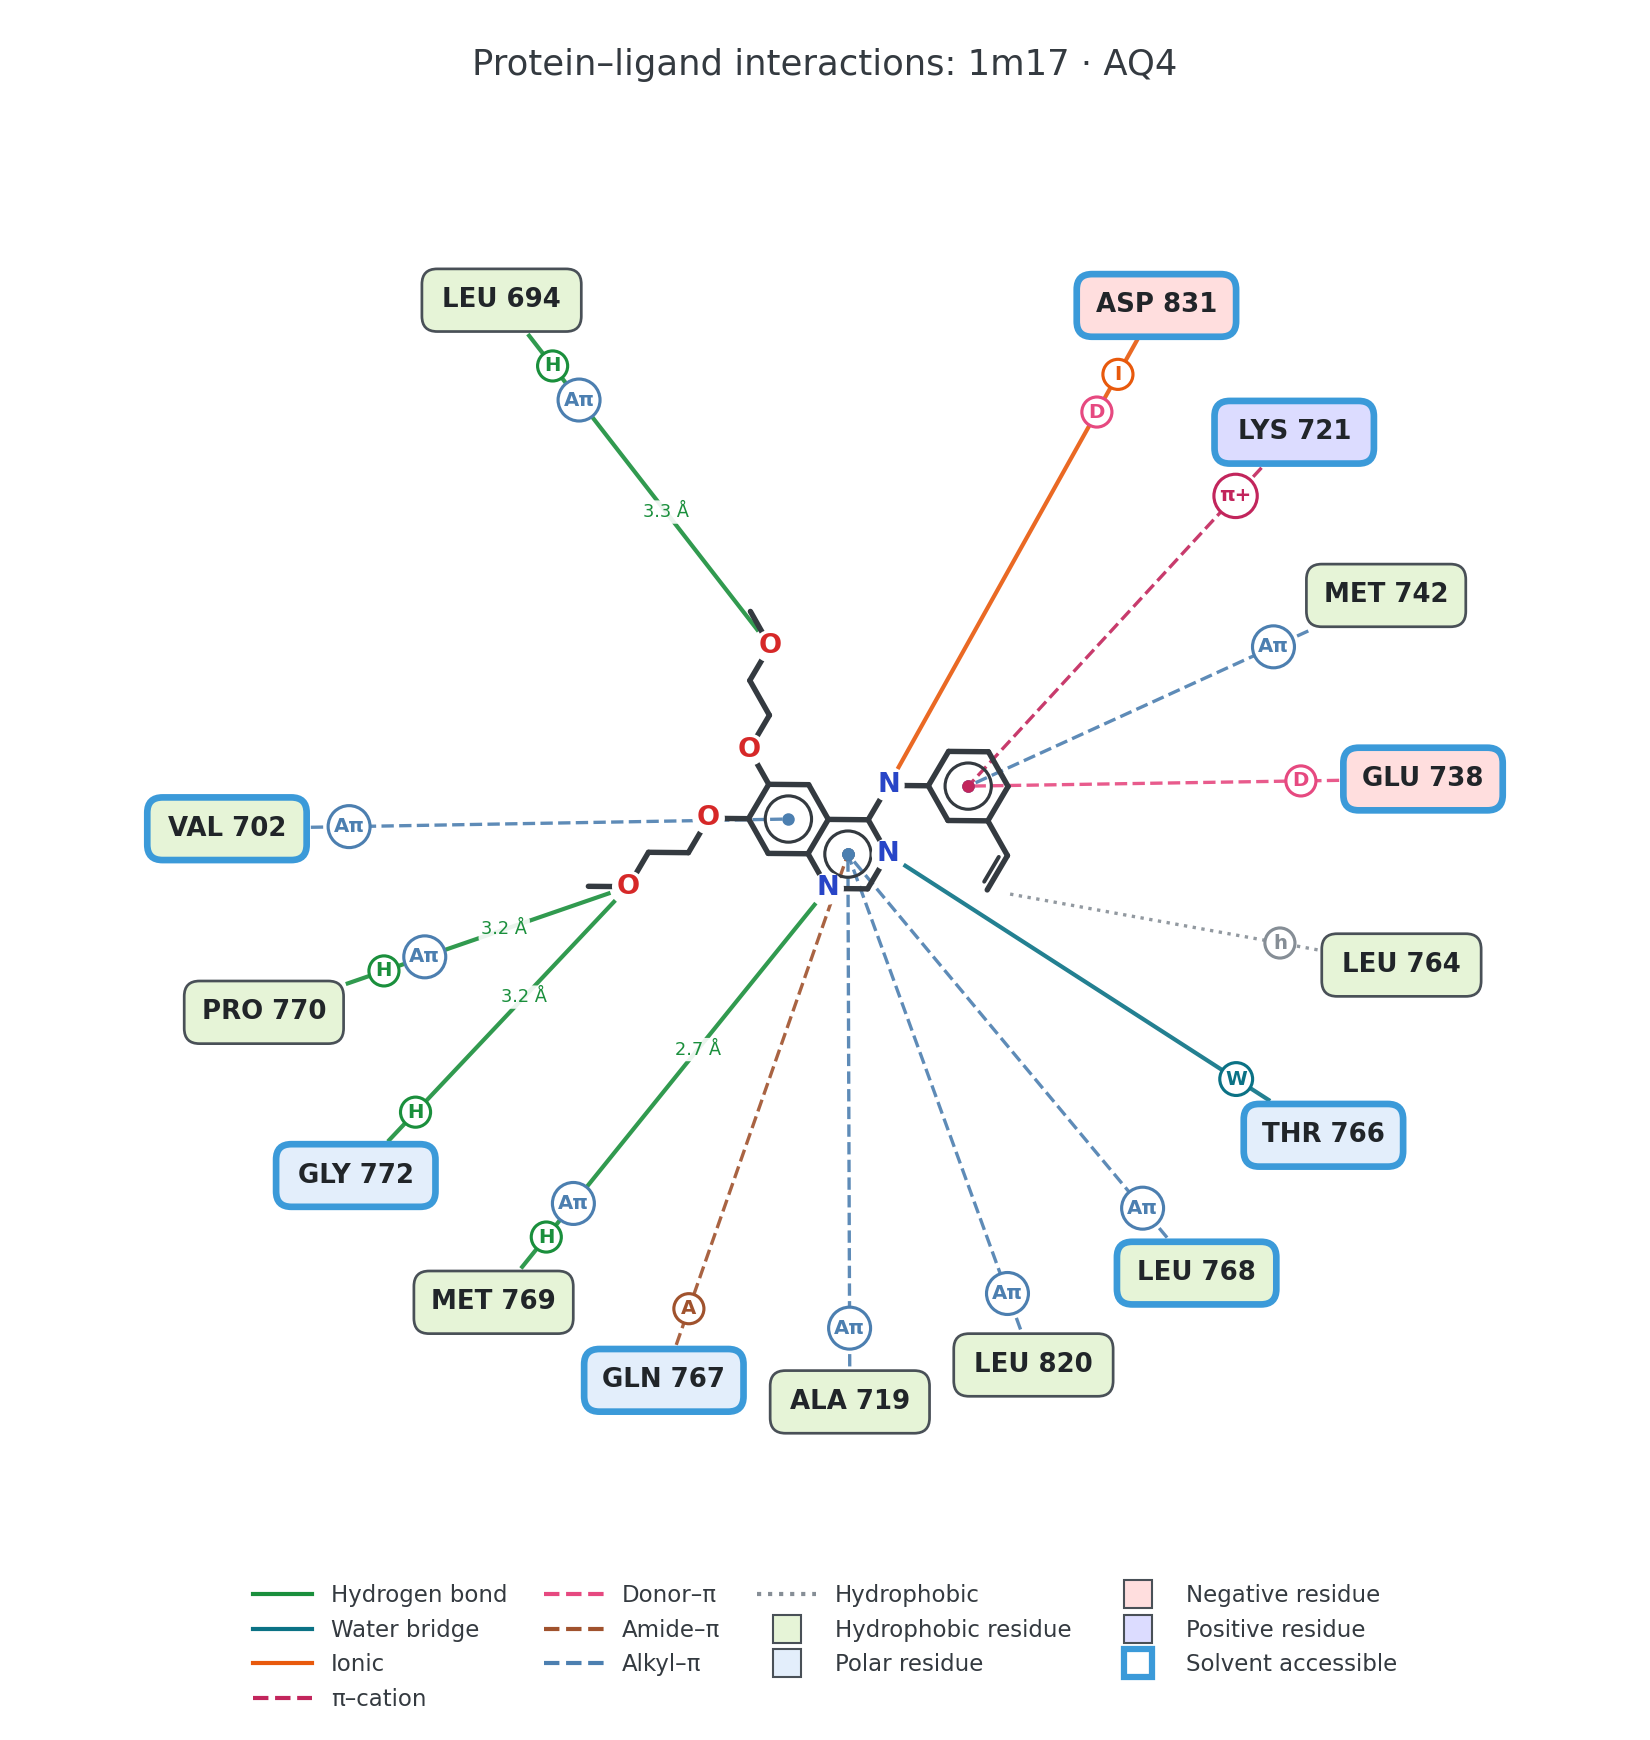
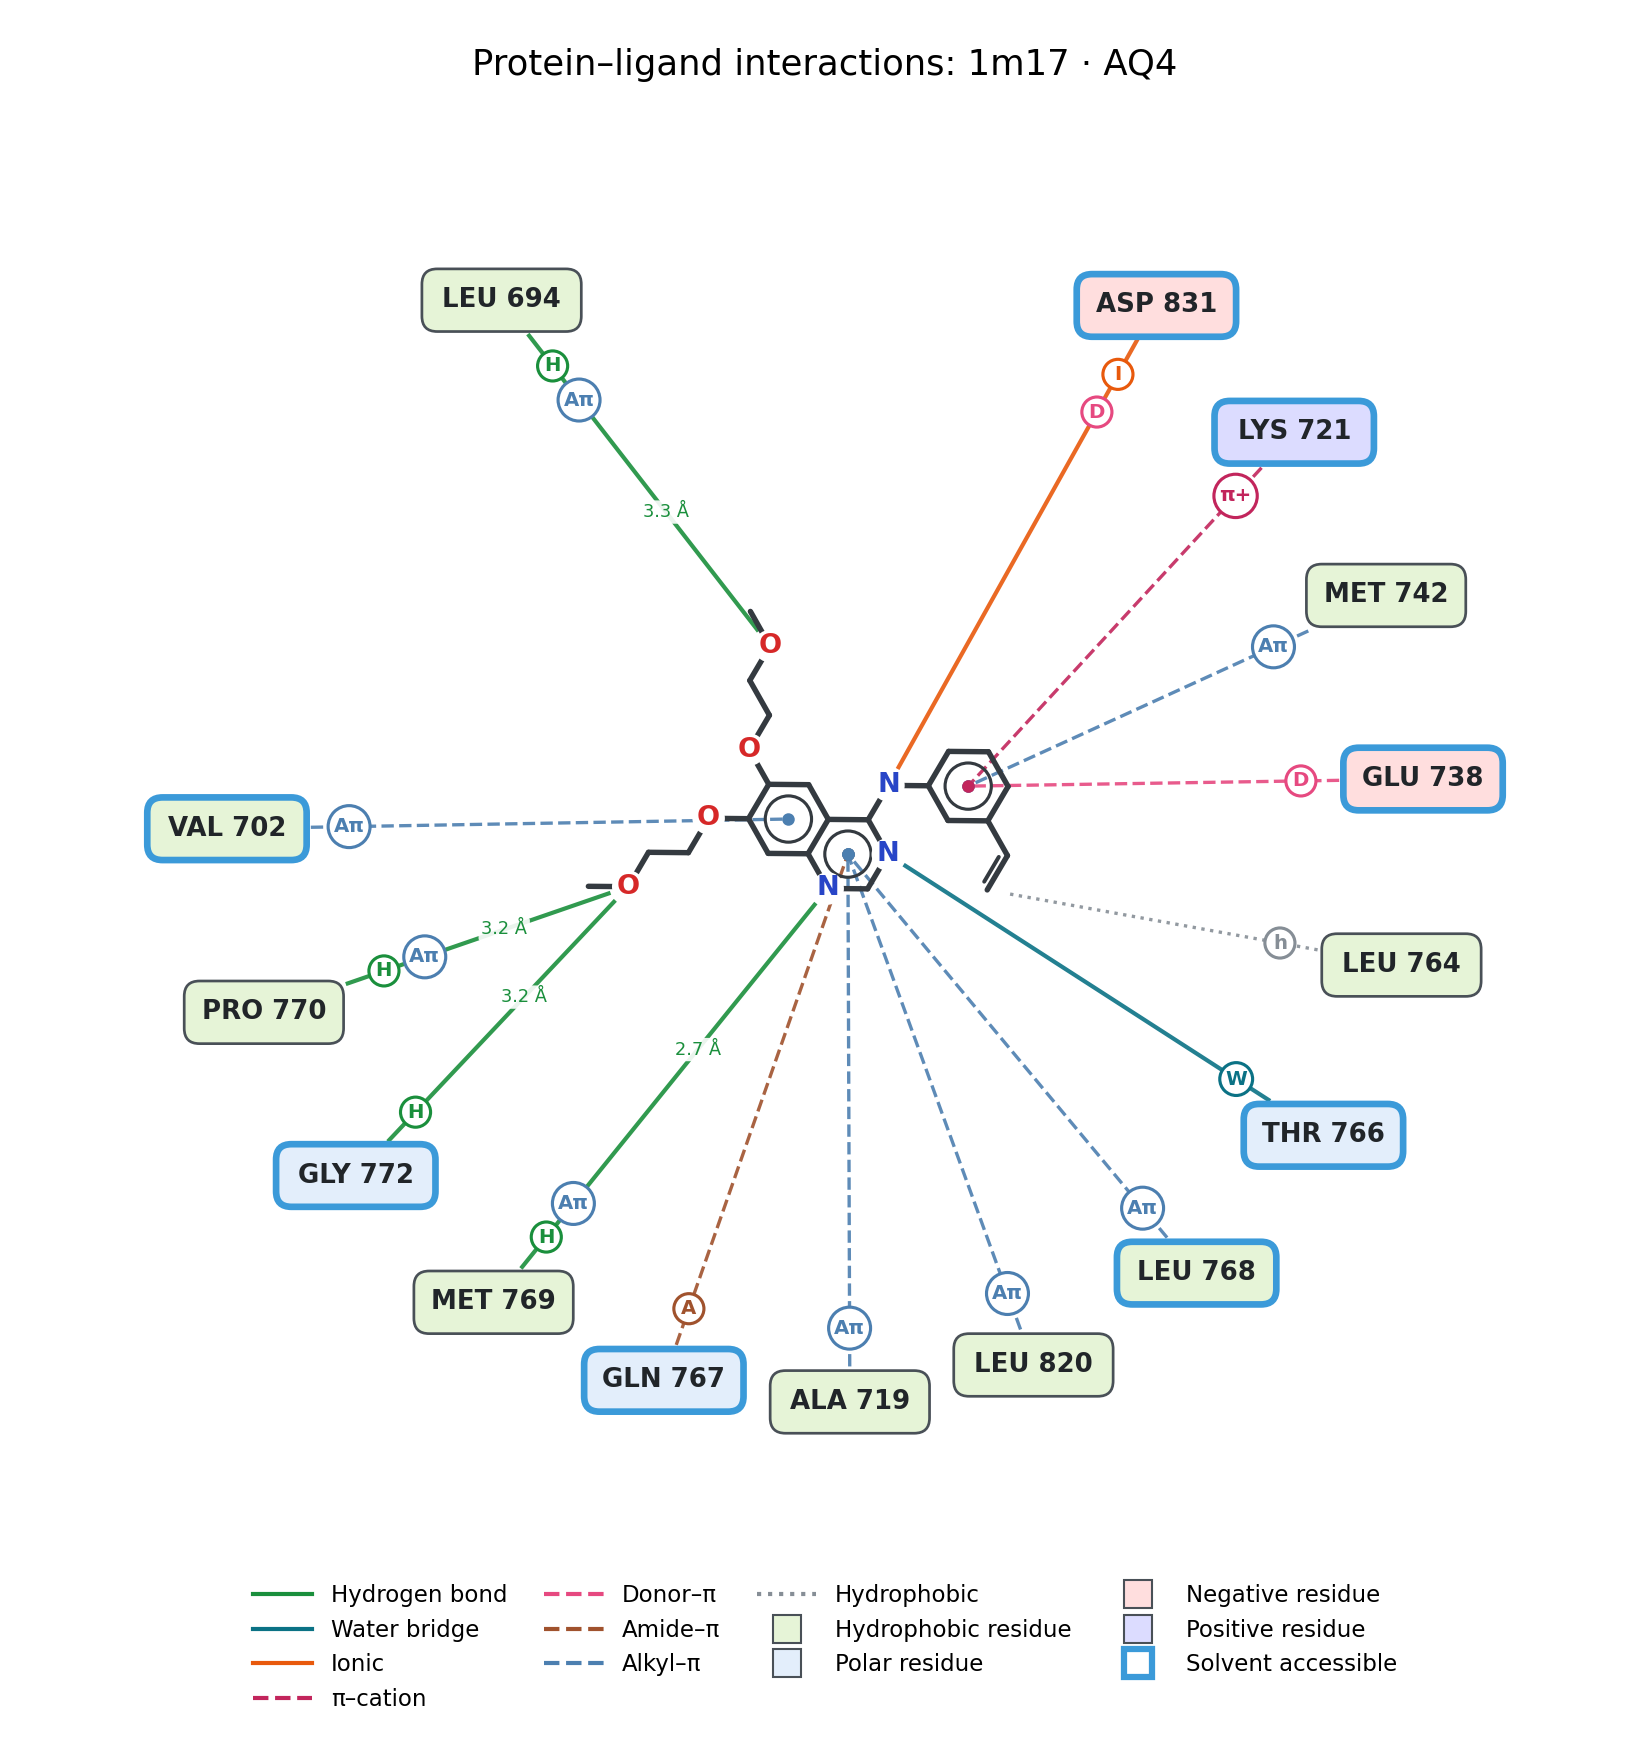
Keep default title and legend text black; refresh scheme examples
Default modern, classic and 3D output is pixel-identical to main.

diff --git a/src/pandamap/render_3d.py b/src/pandamap/render_3d.py
@@ -303,7 +303,7 @@ def render_contacts_3d(mapper, output_file='contacts_3d.png', figsize=(11, 11.6)
         base = os.path.splitext(os.path.basename(str(mapper.structure_file)))[0]
         ligand = getattr(mapper.ligand_residue, 'resname', '').strip()
         title = f"3D contacts: {base}" + (f" · {ligand}" if ligand else "")
-    ax.set_title(title, fontsize=17, pad=6, color=ink)
+    ax.set_title(title, fontsize=17, pad=6, color=theme.get('ink', 'black'))
     handles = [Line2D([0], [0], color=colour_of(t), ls=INTERACTION_STYLE[t][2],
                       lw=2.2, label=INTERACTION_STYLE[t][0])
                for t in INTERACTION_STYLE if t in used_types]
@@ -318,7 +318,7 @@ def render_contacts_3d(mapper, output_file='contacts_3d.png', figsize=(11, 11.6)
     if handles:
         fig.legend(handles=handles, loc='lower center', ncol=4, frameon=False,
                    fontsize=11, bbox_to_anchor=(0.5, 0.005), handlelength=2.6,
-                   columnspacing=1.6, labelcolor=ink)
+                   columnspacing=1.6, labelcolor=theme.get('ink', 'black'))
     if keys:
         fig.text(0.5, bottom + 0.012,
                  'Residues are moved outwards for clarity; printed distances are the real ones.',

diff --git a/src/pandamap/diagram.py b/src/pandamap/diagram.py
@@ -424,12 +424,12 @@ def draw_interaction_diagram(mapper, output_file='protein_ligand_interactions.pn
         base = os.path.splitext(os.path.basename(str(mapper.structure_file)))[0]
         ligand = getattr(mapper.ligand_residue, 'resname', '').strip()
         title = f"Protein–ligand interactions: {base}" + (f" · {ligand}" if ligand else "")
-    ax.set_title(title, fontsize=17, pad=6, color=ink)
+    ax.set_title(title, fontsize=17, pad=6, color=theme.get('ink', 'black'))
     rows = math.ceil(len(handles) / 4) if handles else 0
     if handles:
         fig.legend(handles=handles, loc='lower center', ncol=4, frameon=False,
                    fontsize=11, bbox_to_anchor=(0.5, 0.005), handlelength=2.6,
-                   columnspacing=1.6, labelcolor=ink)
+                   columnspacing=1.6, labelcolor=theme.get('ink', 'black'))
     fig.subplots_adjust(left=0.01, right=0.99, top=0.95, bottom=0.03 + 0.024 * rows)
     fig.savefig(output_file, dpi=dpi, facecolor=paper)
     plt.close(fig)

diff --git a/src/pandamap/core.py b/src/pandamap/core.py
@@ -2054,7 +2054,7 @@ class HybridProtLigMapper:
             fontsize=9,
             title_fontsize=10,
             facecolor=paper,
-            edgecolor=ink,
+            edgecolor=theme.get('ink', '0.8'),    # matplotlib's default frame grey
             labelcolor=ink
         )
         legend.get_title().set_color(ink)
